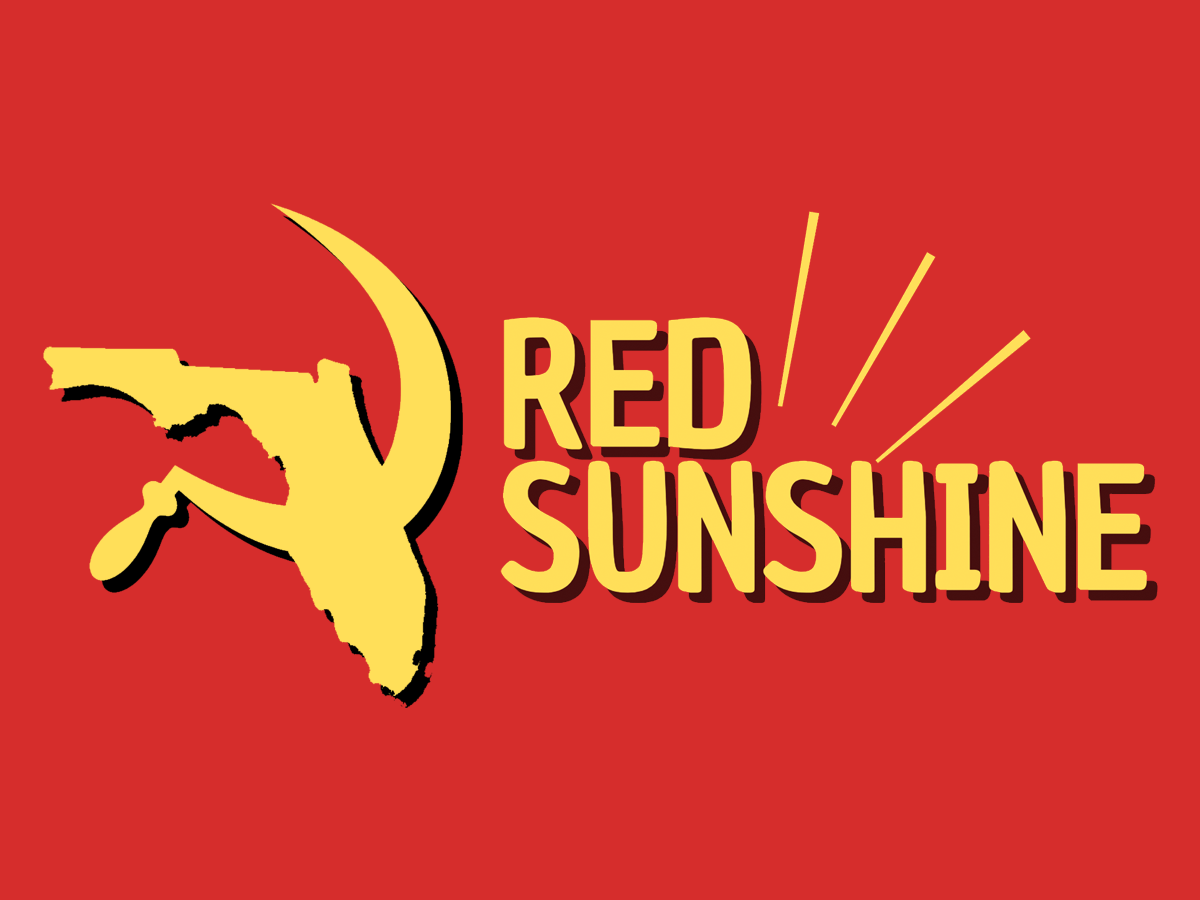
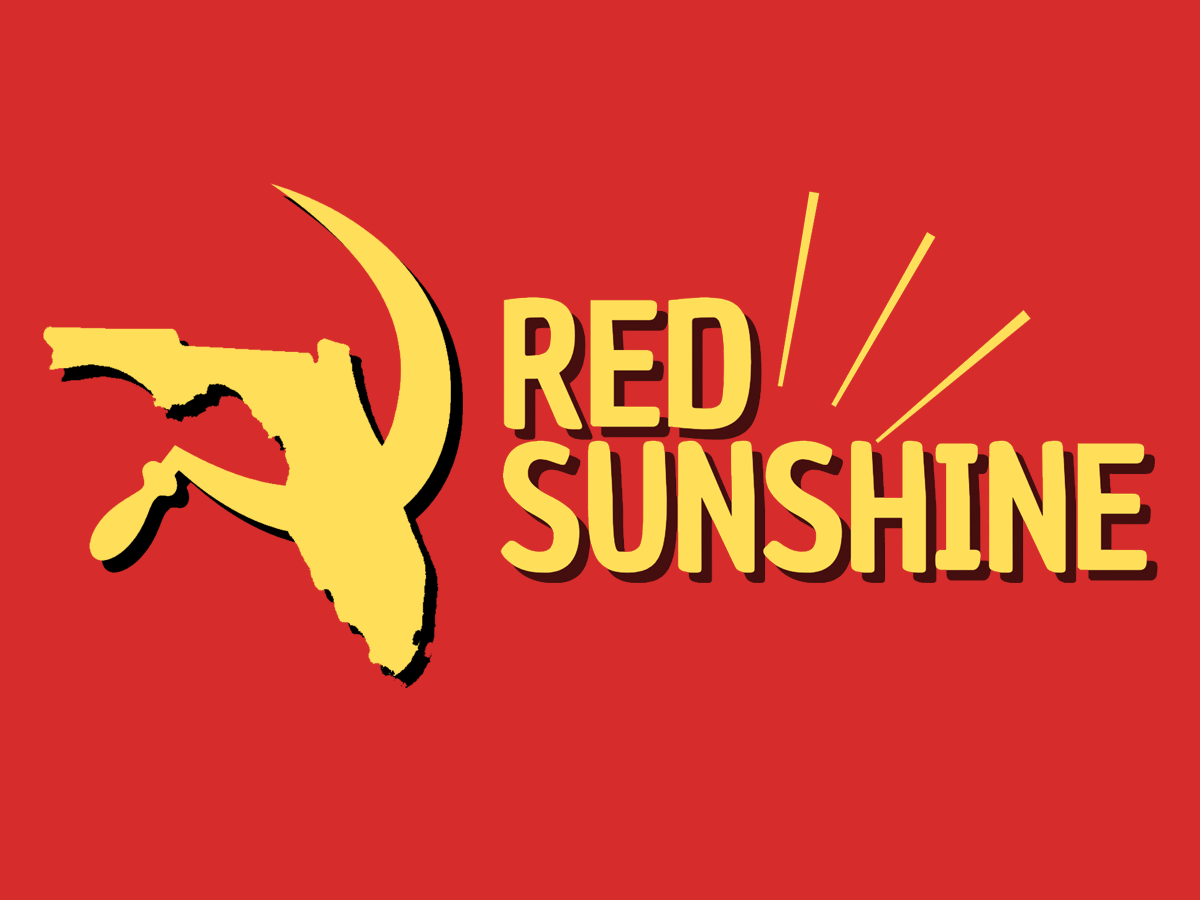
Initial theme steup

Changed region(s): [[0.0308, 0.1867, 0.9867, 0.7778], [0.37, 0.3733, 0.4008, 0.4356], [0.2467, 0.6222, 0.2775, 0.6844]]

diff --git a/wp-content/themes/redsunshine/header.php b/wp-content/themes/redsunshine/header.php
@@ -1,0 +1,10 @@
+<!DOCTYPE html>
+<html <?php language_attributes(); ?>>
+    <head>
+        <meta charset="<?php bloginfo('charset'); ?>">
+        <meta name="viewport" content="width=device-width, initial-scale=1">
+        <title><?php bloginfo('name'); ?></title>
+        <?php wp_head(); ?>
+    </head>
+    <body <?php body_class(); ?>>
+        <?php include __DIR__ . '/components/header.php'; ?>

diff --git a/wp-content/themes/redsunshine/components/header.php b/wp-content/themes/redsunshine/components/header.php
@@ -1,0 +1,17 @@
+<?php
+    $logo = get_stylesheet_directory_uri() . '/images/logo.png';
+?>
+
+<header id="headerTop">
+    <div class="flex">
+        <a href="/">
+            <img src="<?= $logo; ?>" alt="Red Sunsine Bulletin Logo">
+        </a>
+    </div>
+    <?php
+        wp_nav_menu([
+            'theme_location' => 'primary',
+            'container' => 'nav'
+        ]);
+    ?>
+</header>

diff --git a/wp-content/themes/redsunshine/page.php b/wp-content/themes/redsunshine/page.php
@@ -1,10 +1,10 @@
 <?php get_header(); ?>
 
-<main id="templateHome">
+<main id="templateStaticPage">
     <?php
     while (have_posts()):
         the_post();
-        include __DIR__ . '/components/card.php';
+        include __DIR__ . '/components/staticPage.php';
     endwhile;
     ?>
 </main>

diff --git a/wp-content/themes/redsunshine/single.php b/wp-content/themes/redsunshine/single.php
@@ -1,10 +1,10 @@
 <?php get_header(); ?>
 
-<main id="templateHome">
+<main id="templateArticle">
     <?php
     while (have_posts()):
         the_post();
-        include __DIR__ . '/components/card.php';
+        include __DIR__ . '/components/article.php';
     endwhile;
     ?>
 </main>

diff --git a/wp-content/themes/redsunshine/components/card.php b/wp-content/themes/redsunshine/components/card.php
@@ -1,0 +1,10 @@
+<article id="card-<?php the_ID(); ?>" data-id="<?php the_ID(); ?>" class="card">
+    <header>
+        <a href="<?php the_permalink(); ?>">
+            <h1><?php the_title(); ?></h1>
+        </a>
+    </header>
+    <div class="">
+
+    </div>
+</article>

diff --git a/wp-content/themes/redsunshine/components/article.php b/wp-content/themes/redsunshine/components/article.php
@@ -1,0 +1,5 @@
+<article data-id="<?php the_ID(); ?>">
+    <header>
+        <h1><?php the_title(); ?></h1>
+    </header>
+</article>

diff --git a/wp-content/themes/redsunshine/footer.php b/wp-content/themes/redsunshine/footer.php
@@ -1,0 +1,6 @@
+        <footer>
+            
+        </footer>
+        <?php wp_footer(); ?>
+    </body>
+</html>

diff --git a/wp-content/themes/redsunshine/components/staticPage.php b/wp-content/themes/redsunshine/components/staticPage.php
@@ -1,0 +1,3 @@
+<section>
+
+</section>

diff --git a/wp-content/themes/redsunshine/functions.php b/wp-content/themes/redsunshine/functions.php
@@ -1,0 +1,3 @@
+<?php
+    
+?>
